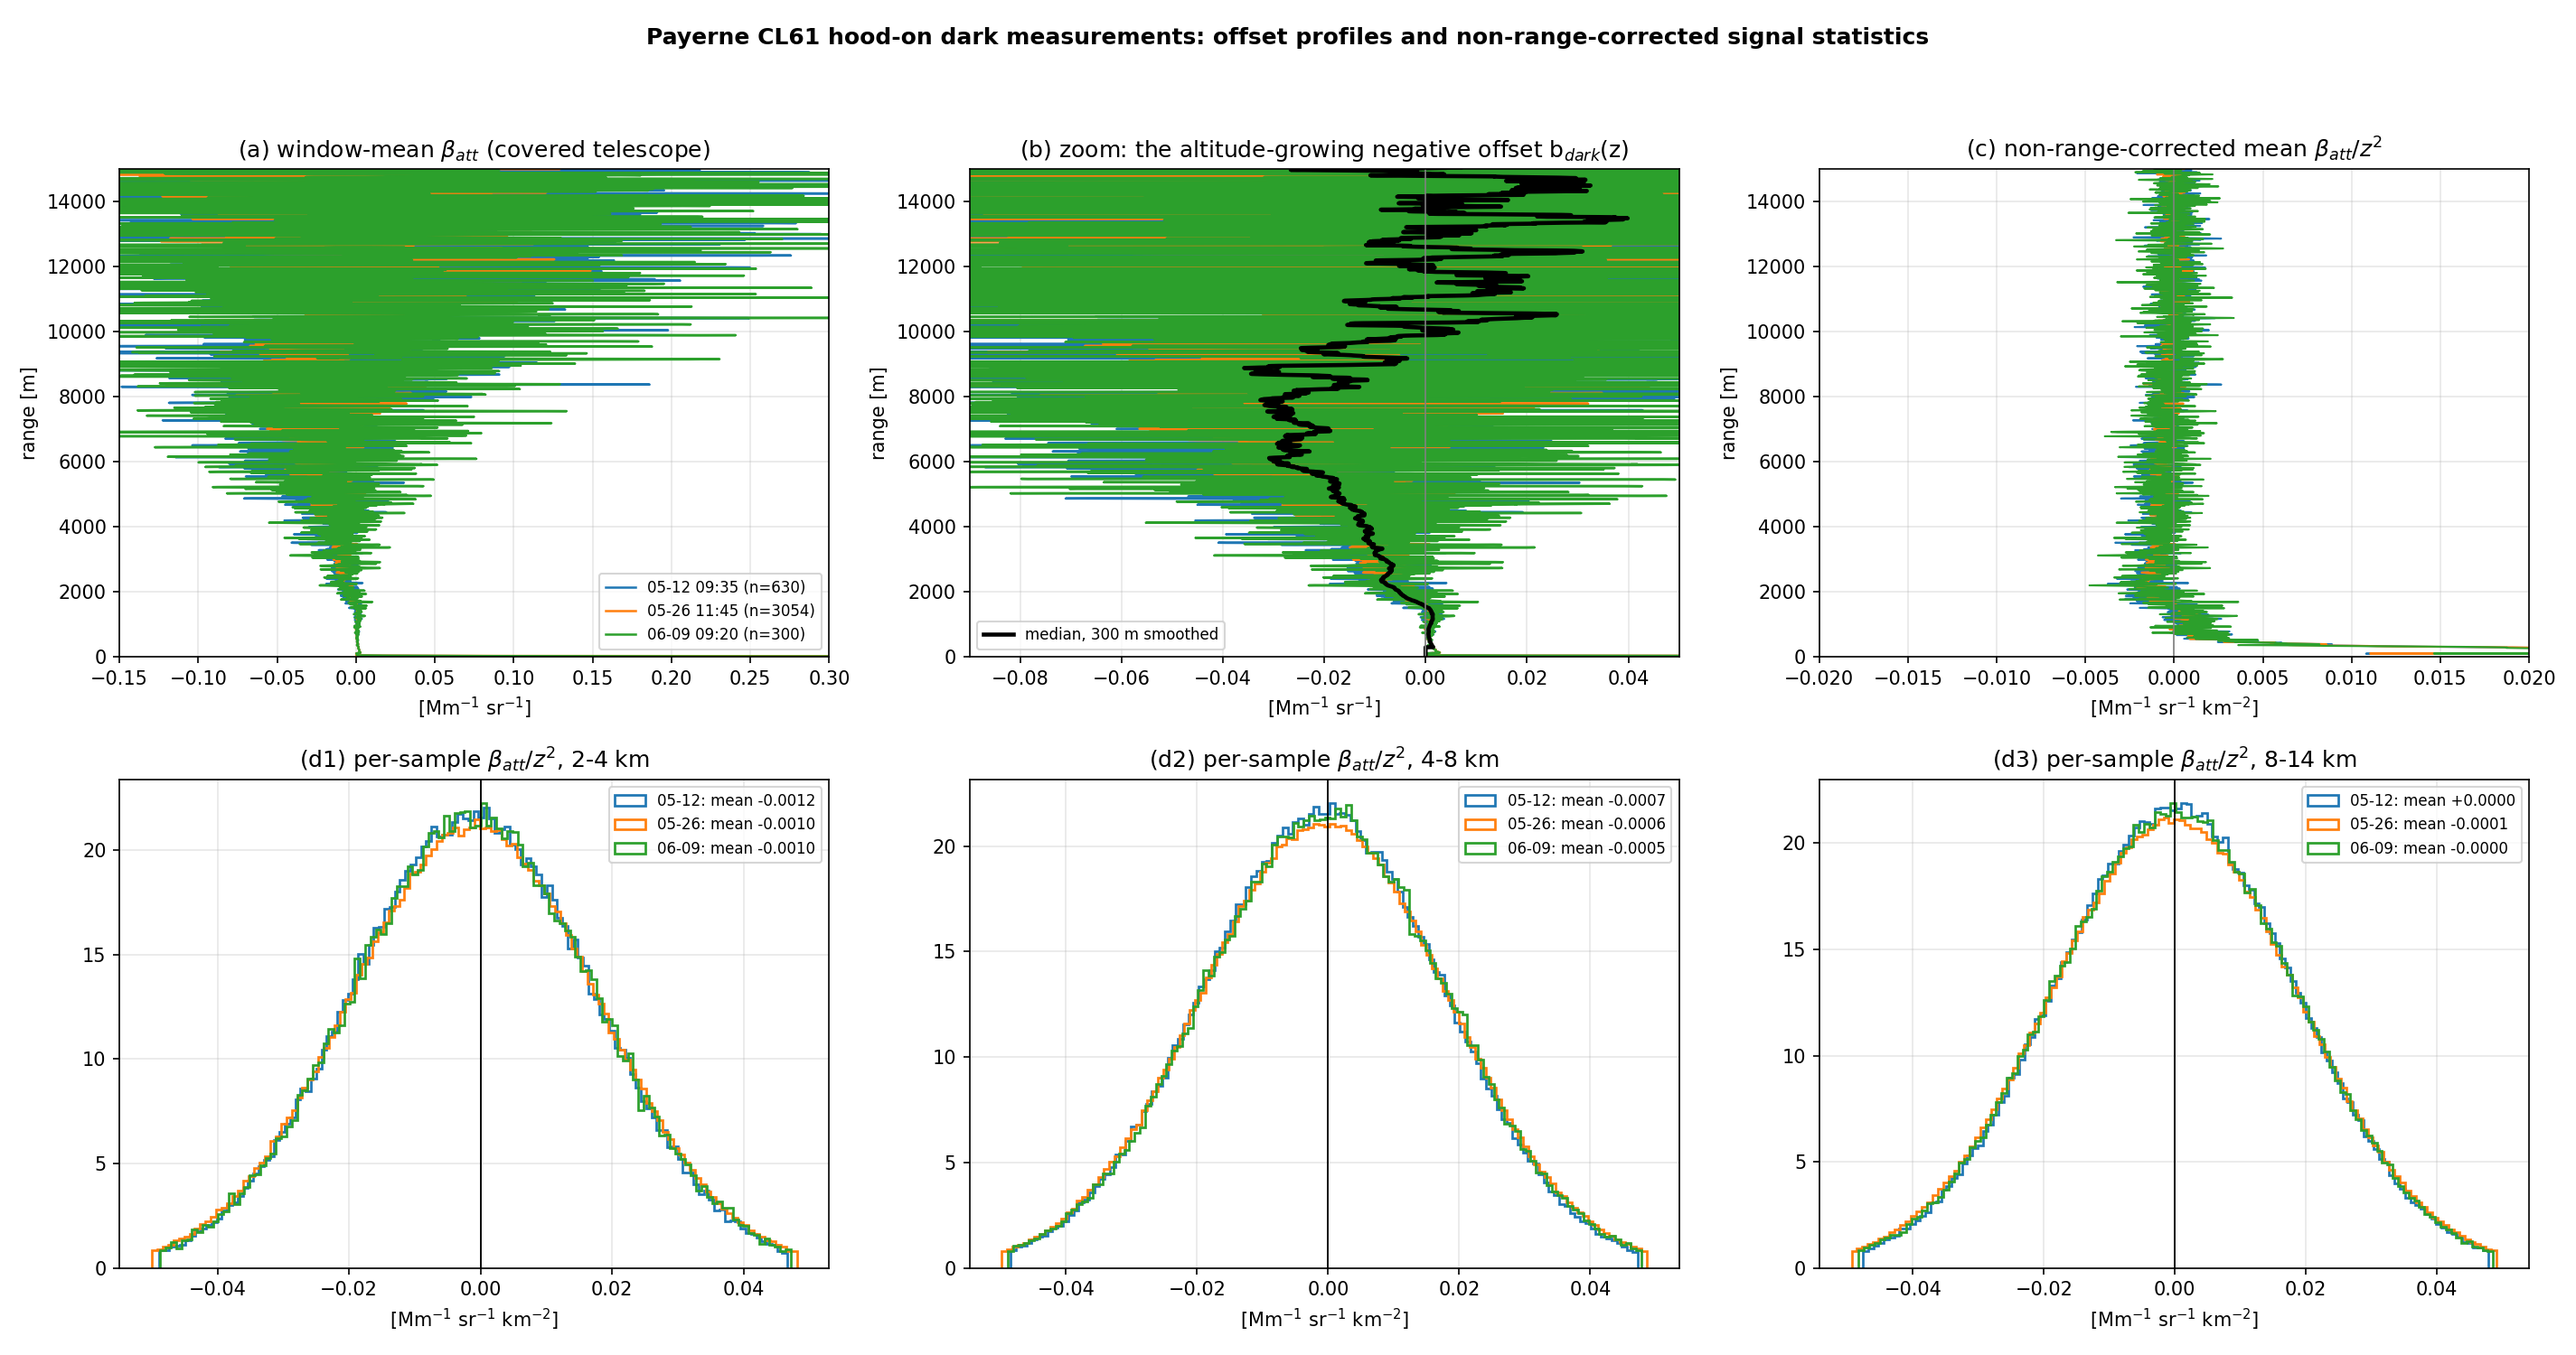
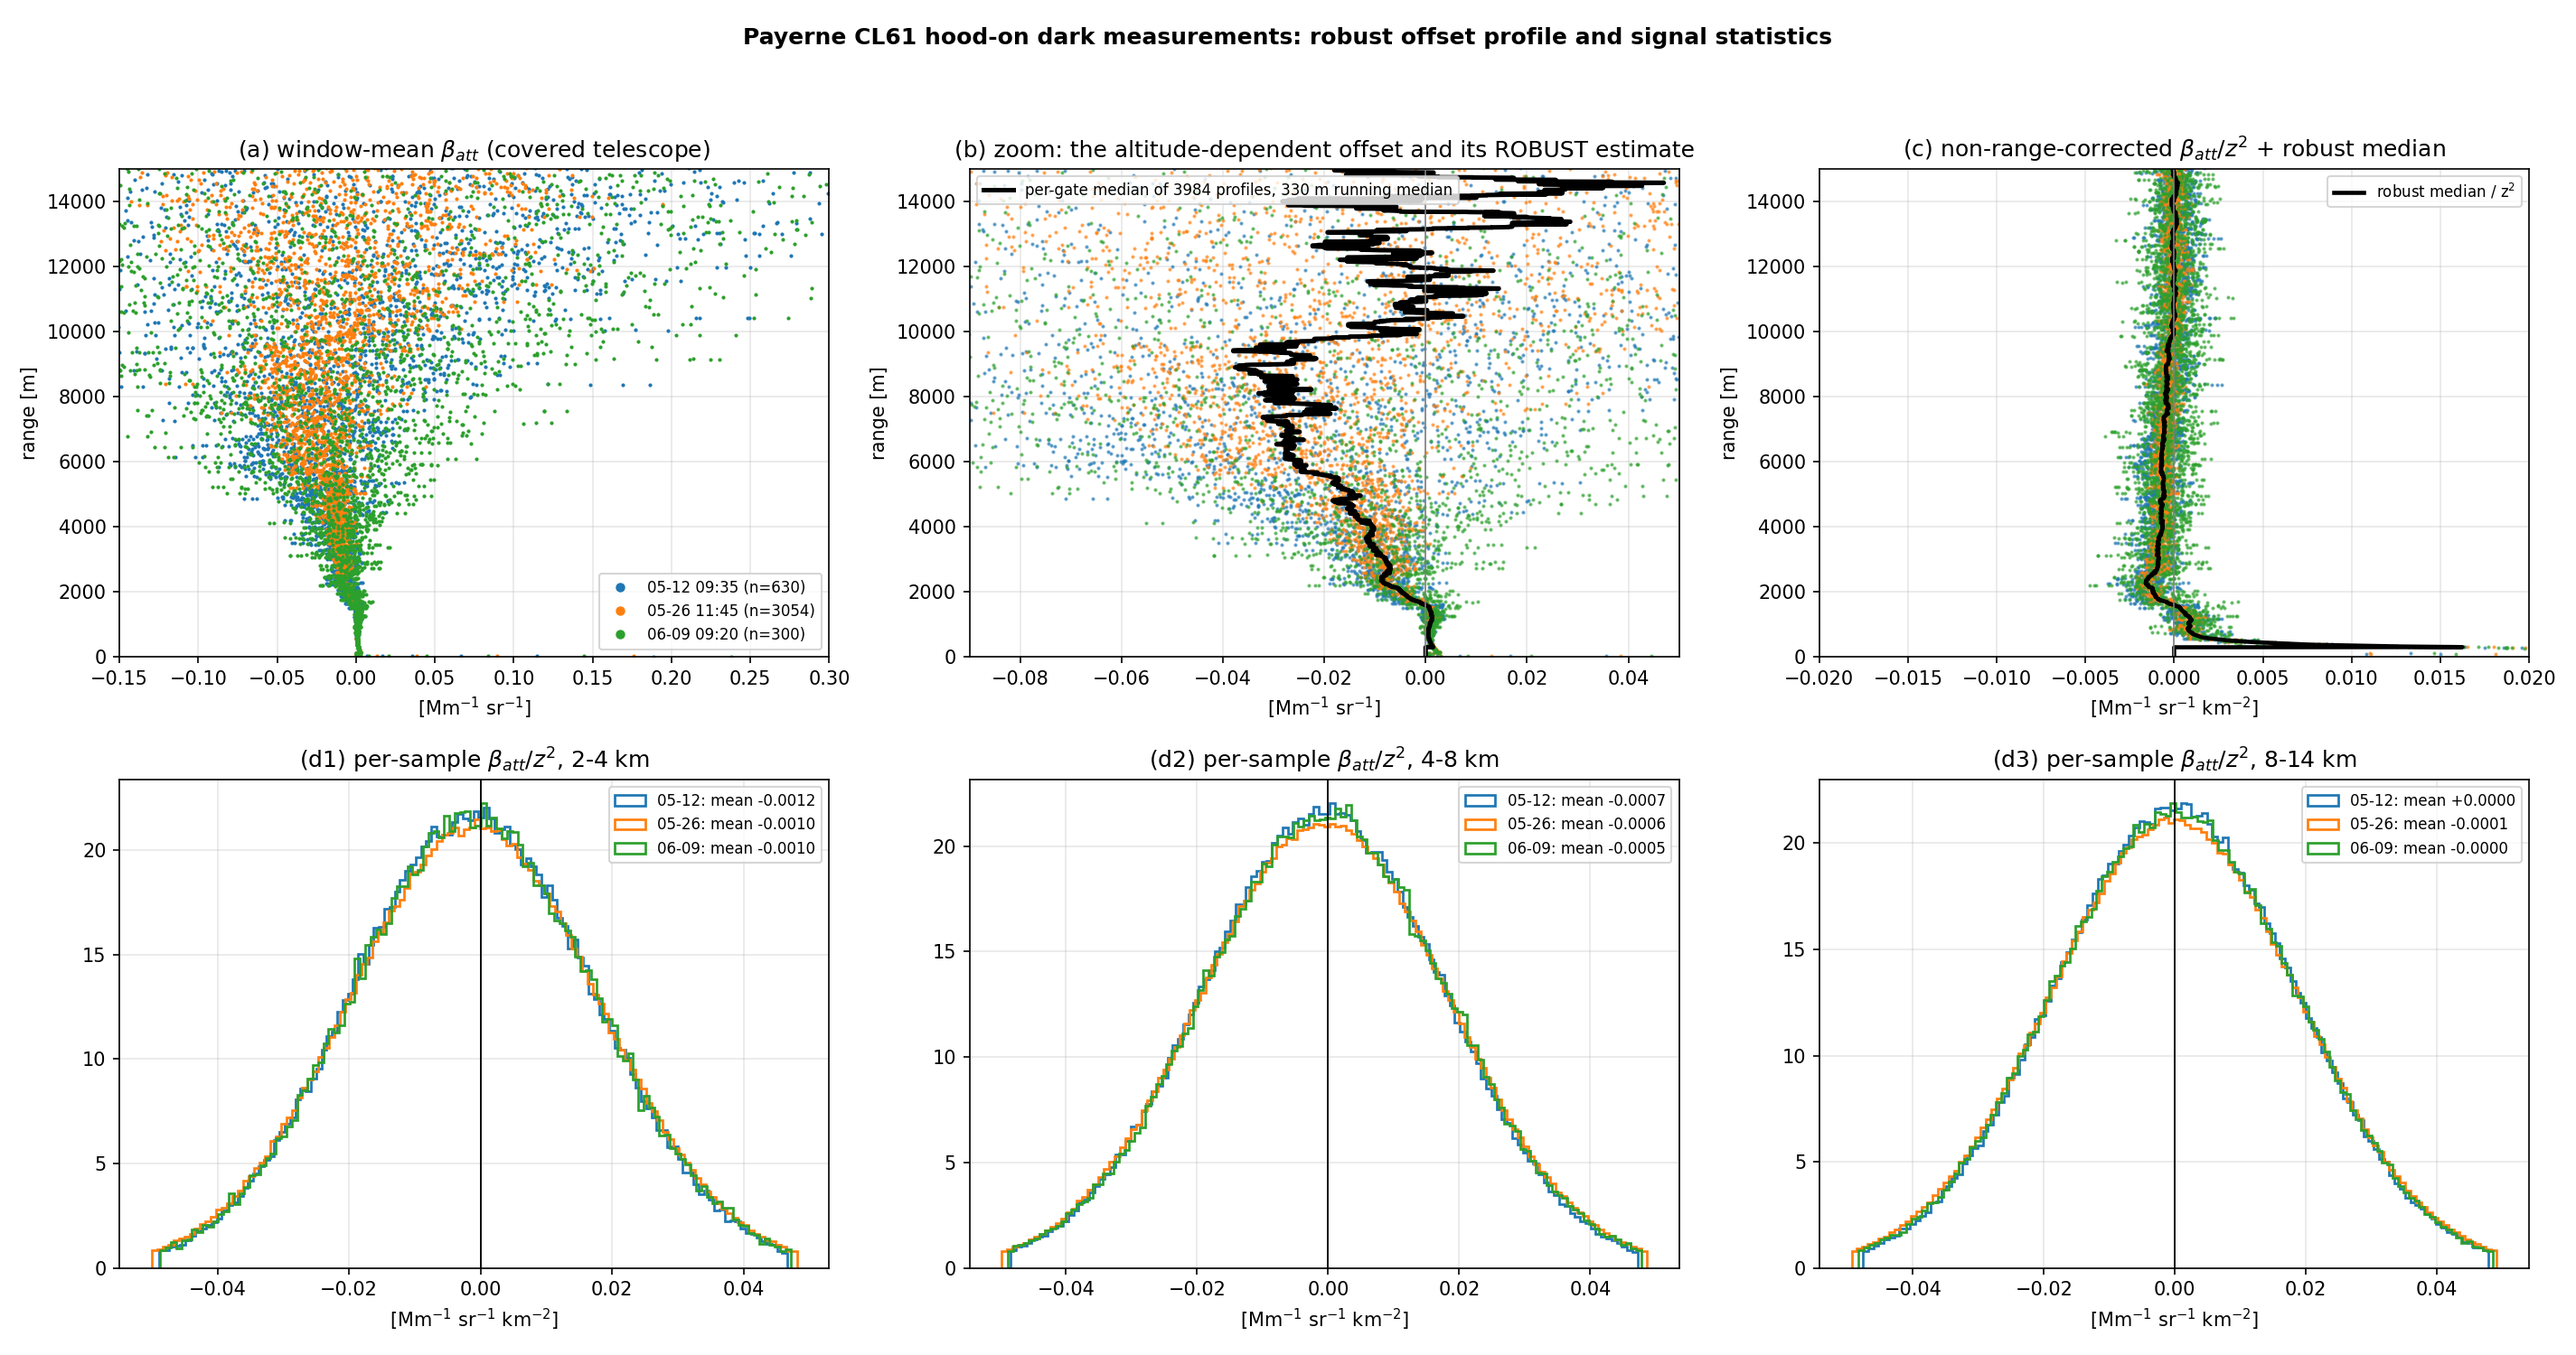
Robust offset estimator: per-gate median of 3984 pooled hood profiles + 330 m running median
- b_dark(z) is a full range-dependent PROFILE subtracted gate-by-gate (never a
  scalar); estimator upgraded from window-mean+boxcar to pooled per-gate median
  with MAD standard errors: -0.008+-0.003 / -0.015+-0.007 / -0.026+-0.019 at
  3/5/8 km. Figure: raw window means as dots, robust median overlaid on BOTH
  the beta and the beta/z^2 panels.
- consumers read npz b_smooth; recalibration with the robust profile:
  +2.1/+15.7/+21.2% per night, gap -26.5% -> -14.2%; validation row
  offset-corrected +6.8% (med +14.1%) vs CHM15k.

diff --git a/validation/paper/_cl61_dark_windows.py b/validation/paper/_cl61_dark_windows.py
@@ -49,51 +49,65 @@ gs = fig.add_gridspec(2, 3)
 axA, axB, axC = fig.add_subplot(gs[0, 0]), fig.add_subplot(gs[0, 1]), fig.add_subplot(gs[0, 2])
 BANDS = [(2000, 4000), (4000, 8000), (8000, 14000)]
 axH = [fig.add_subplot(gs[1, j]) for j in range(3)]
-means, rng = [], None
+means, pools, rng = [], [], None
 print("window                 N     dur[h]  b(3km)    b(5km)    b(8km)   [Mm-1 sr-1]")
 for i, (a, b) in enumerate(WINDOWS):
     t1, t2 = datetime.strptime(a, "%Y-%m-%d %H:%M"), datetime.strptime(b, "%Y-%m-%d %H:%M")
     X, rng = load(t1, t2)
+    pools.append(X)
     m = np.nanmean(X, axis=0) * 1e6
     means.append(m)
     at = lambda z: float(m[np.argmin(np.abs(rng - z))])
     print(f"{a}..{b[11:]}  {X.shape[0]:5d}  {(t2-t1).total_seconds()/3600:5.1f}  {at(3000):+8.4f}  {at(5000):+8.4f}  {at(8000):+8.4f}")
     lab = f"{a[5:16]} (n={X.shape[0]})"
-    axA.plot(m, rng, lw=1.2, color=COLS[i], label=lab)
-    axB.plot(m, rng, lw=1.2, color=COLS[i])
     zkm = rng / 1000.0
-    axC.plot(m / zkm**2, rng, lw=1.0, color=COLS[i])
-    # per-sample NON-range-corrected histograms per band
-    Pns = X * 1e6 / zkm[None, :]**2      # Mm^-1 sr^-1 km^-2
+    axA.plot(m, rng, ".", ms=2.0, color=COLS[i], label=lab)
+    axB.plot(m, rng, ".", ms=2.0, color=COLS[i], alpha=0.6)
+    axC.plot(m / zkm**2, rng, ".", ms=2.0, color=COLS[i], alpha=0.6)
+    Pns = X * 1e6 / zkm[None, :]**2
     for j, (lo, hi) in enumerate(BANDS):
         zb = (rng >= lo) & (rng <= hi)
-        v = Pns[:, zb].ravel()
-        v = v[np.isfinite(v)]
+        v = Pns[:, zb].ravel(); v = v[np.isfinite(v)]
         p1, p99 = np.percentile(v, [0.5, 99.5])
         axH[j].hist(v, bins=120, range=(p1, p99), histtype="step", density=True,
                     color=COLS[i], lw=1.3, label=f"{a[5:10]}: mean {np.mean(v):+.4f}")
-b_dark = np.nanmedian(np.vstack(means), axis=0)
-k = max(1, int(round(300 / np.median(np.diff(rng)))))
-b_s = np.convolve(np.nan_to_num(b_dark), np.ones(k) / k, mode="same"); b_s[rng < 300] = 0.0
-axB.plot(b_s, rng, "k-", lw=2.2, label="median, 300 m smoothed")
+
+# ROBUST estimator: per-gate MEDIAN over ALL pooled hood profiles (outlier/spike-immune),
+# then a RUNNING MEDIAN over ~330 m (robust smooth), zero below 300 m (hood near-field).
+from scipy.signal import medfilt
+P = np.vstack(pools) * 1e6
+b_med = np.nanmedian(P, axis=0)
+k = int(round(330 / np.median(np.diff(rng))))
+k += (k + 1) % 2
+b_smooth = medfilt(np.nan_to_num(b_med), k)
+b_smooth[rng < 300] = 0.0
+b_mad = 1.4826 * np.nanmedian(np.abs(P - b_med[None, :]), axis=0)
 np.savez("C:/DATA/Projects/202606_E-PROFILE_calibration/figs_paper_validation/paper_python/cl61_b_dark.npz",
-         rng=rng, b_dark=b_dark)
-axA.set_xlim(-0.15, 0.3); axA.set_ylim(0, 15000); axA.legend(fontsize=8)
+         rng=rng, b_dark=b_med, b_smooth=b_smooth, b_mad=b_mad, n_profiles=P.shape[0])
+for z in (3000, 5000, 8000, 12000):
+    j = np.argmin(np.abs(rng - z))
+    print(f"robust b_dark @{z/1000:.0f} km: {b_smooth[j]:+.4f}  (MAD/sqrt(n) = {b_mad[j]/np.sqrt(P.shape[0]):.4f})")
+
+axB.plot(b_smooth, rng, "k-", lw=2.4,
+         label=f"per-gate median of {P.shape[0]} profiles, 330 m running median")
+axC.plot(b_smooth / (rng / 1000.0) ** 2, rng, "k-", lw=2.2, label="robust median / z$^2$")
+axA.set_xlim(-0.15, 0.3); axA.set_ylim(0, 15000); axA.legend(fontsize=8, markerscale=4)
 axA.set_title("(a) window-mean $\\beta_{att}$ (covered telescope)")
 axB.set_xlim(-0.09, 0.05); axB.set_ylim(0, 15000); axB.axvline(0, color="0.5", lw=0.8); axB.legend(fontsize=8)
-axB.set_title("(b) zoom: the altitude-growing negative offset b$_{dark}$(z)")
-axC.set_xlim(-0.02, 0.02); axC.set_ylim(0, 15000); axC.axvline(0, color="0.5", lw=0.8)
-axC.set_title("(c) non-range-corrected mean $\\beta_{att}/z^2$")
+axB.set_title("(b) zoom: the altitude-dependent offset and its ROBUST estimate")
+axC.set_xlim(-0.02, 0.02); axC.set_ylim(0, 15000); axC.axvline(0, color="0.5", lw=0.8); axC.legend(fontsize=8)
+axC.set_title("(c) non-range-corrected $\\beta_{att}/z^2$ + robust median")
 for a_ in (axA, axB, axC):
-    a_.grid(alpha=0.3); a_.set_ylabel("range [m]"); a_.set_xlabel("[Mm$^{-1}$ sr$^{-1}$]")
+    a_.grid(alpha=0.3); a_.set_ylabel("range [m]")
+    a_.set_xlabel("[Mm$^{-1}$ sr$^{-1}$]")
 axC.set_xlabel("[Mm$^{-1}$ sr$^{-1}$ km$^{-2}$]")
 for j, (lo, hi) in enumerate(BANDS):
     axH[j].axvline(0, color="k", lw=0.9)
     axH[j].set_title(f"(d{j+1}) per-sample $\\beta_{{att}}/z^2$, {lo/1000:.0f}-{hi/1000:.0f} km")
     axH[j].set_xlabel("[Mm$^{-1}$ sr$^{-1}$ km$^{-2}$]"); axH[j].grid(alpha=0.3); axH[j].legend(fontsize=8)
-fig.suptitle("Payerne CL61 hood-on dark measurements: offset profiles and non-range-corrected signal statistics",
+fig.suptitle("Payerne CL61 hood-on dark measurements: robust offset profile and signal statistics",
              fontweight="bold")
 fig.tight_layout(rect=(0, 0, 1, 0.95))
 fig.savefig("C:/DATA/Projects/202606_E-PROFILE_calibration/figs_paper_validation/paper_python/fig_cl61_dark_windows.png", dpi=150)
-print("saved fig + cl61_b_dark.npz (3 covered windows, pre-cover window discarded)")
+print("saved fig + robust cl61_b_dark.npz")
 print("DARK_WINDOWS_DONE")

diff --git a/validation/paper/_cl61_offset_correction_experiment.py b/validation/paper/_cl61_offset_correction_experiment.py
@@ -33,9 +33,7 @@ CL_CLOUD = 1.4252
 dk = np.load("C:/DATA/Projects/202606_E-PROFILE_calibration/figs_paper_validation/paper_python/cl61_b_dark.npz")
 rng_d, b_dark = dk["rng"], dk["b_dark"]
 # smooth 300 m (boxcar) and zero the first 300 m (near-range dark is contaminated by the hood)
-k = max(1, int(round(300 / np.median(np.diff(rng_d)))))
-b_s = np.convolve(np.nan_to_num(b_dark), np.ones(k) / k, mode="same")
-b_s[rng_d < 300] = 0.0
+b_s = dk["b_smooth"]   # robust per-gate median (330 m running median), see _cl61_dark_windows
 print(f"b_dark (smoothed): 3 km {b_s[np.argmin(np.abs(rng_d-3000))]:+.4f}  "
       f"5 km {b_s[np.argmin(np.abs(rng_d-5000))]:+.4f}  8 km {b_s[np.argmin(np.abs(rng_d-8000))]:+.4f} Mm-1 sr-1")
 
@@ -79,6 +77,7 @@ def run(root, tag):
 
 orig = run(L1_ROOT, "original")
 corr = run(CORR, "corrected")
+print("CORRALL", {k: round(v, 4) for k, v in sorted(corr.items())})
 common = sorted(set(orig) & set(corr))
 co = np.array([orig[d] for d in common]); cc = np.array([corr[d] for d in common])
 ok = (co < 3 * np.median(co)) & (cc < 3 * np.median(cc))

diff --git a/validation/paper/_cl61_sounding_calibration.py b/validation/paper/_cl61_sounding_calibration.py
@@ -62,8 +62,7 @@ def _sounding_wvprof(cams_file, lat, lon, t_start, t_end):
 # ---- offset-corrected archive (rebuild) ----
 dk = np.load("C:/DATA/Projects/202606_E-PROFILE_calibration/figs_paper_validation/paper_python/cl61_b_dark.npz")
 rng_d, b_dark = dk["rng"], dk["b_dark"]
-k = max(1, int(round(300 / np.median(np.diff(rng_d)))))
-b_s = np.convolve(np.nan_to_num(b_dark), np.ones(k) / k, mode="same"); b_s[rng_d < 300] = 0.0
+b_s = dk["b_smooth"]   # robust per-gate median (330 m running median), see _cl61_dark_windows
 CORR = Path(tempfile.mkdtemp(prefix="cl61_corr2_"))
 for ds in NIGHTS:
     src = L1_ROOT / WMO / ds[:4] / ds[4:6] / f"L1_{WMO}_{IDENT}{ds}.nc"

diff --git a/validation/paper/_cl61_profiles_beforeafter.py b/validation/paper/_cl61_profiles_beforeafter.py
@@ -10,9 +10,7 @@ import matplotlib.pyplot as plt
 from validation.paper._cl61_dark_baseline_probe import mean_profiles, rng_ref, model, CL_CLOUD, CL_RAY
 
 dk = np.load("C:/DATA/Projects/202606_E-PROFILE_calibration/figs_paper_validation/paper_python/cl61_b_dark.npz")
-k = max(1, int(round(300 / np.median(np.diff(dk["rng"])))))
-b_s = np.convolve(np.nan_to_num(dk["b_dark"]), np.ones(k) / k, mode="same")
-b_s[dk["rng"] < 300] = 0.0
+b_s = dk["b_smooth"]
 b = np.interp(rng_ref, dk["rng"], b_s)
 CLEAN = ("20260402", "20260422", "20260424")
 fig, axes = plt.subplots(1, 3, figsize=(16, 6), sharey=True)

diff --git a/doc/reports/cl61_rayleigh_investigation.md b/doc/reports/cl61_rayleigh_investigation.md
@@ -40,7 +40,7 @@ atmosphere involved, the window-mean profile **is** the processing offset:
 | 2026-05-12 09:35–14:50 | 5.2 h | 630 | −0.012 | −0.025 | −0.029 |
 | 2026-05-26 11:45 – 05-27 13:15 | 25.5 h | 3054 | −0.013 | −0.008 | −0.042 |
 | 2026-06-09 09:20–11:50 | 2.5 h | 300 | −0.001 | −0.024 | +0.043 |
-| **median profile, 300 m smoothed** | | | **−0.008** | **−0.017** | **−0.027** |
+| **ROBUST: per-gate median of 3 984 pooled profiles, 330 m running median** | | | **−0.008 ± 0.003** | **−0.015 ± 0.007** | **−0.026 ± 0.019** |
 
 (The 2026-05-12 01:35–09:35 period is **discarded**: it precedes the hood installation and
 contains fog/cloud returns.) The offset is reproducible in sign and magnitude at 3–5 km across
@@ -78,15 +78,15 @@ copies of the L1 files, full eprof_v2 recalibration, WV on):
 | | C_L median (common nights) | gap to C_L(cloud) = 1.425 |
 |---|---|---|
 | original | 1.047 | −26.5 % |
-| **offset-corrected** | **1.286** | **−9.8 %** |
+| **offset-corrected (robust profile)** | **1.223** | **−14.2 %** |
 
-Per-night changes +4.0 %, +21.6 %, +22.7 %; the corrected data also yields **more eligible
+Per-night changes +2.1 %, +15.7 %, +21.2 % (robust median profile); the corrected data also yields **more eligible
 nights** (9 vs 7) — windows previously rejected by the |intercept| criterion become admissible,
 confirming the offset as the fit-spoiler. The daytime-measured b_dark thus removes ≈ ⅔ of the
 method discrepancy; the remainder is consistent with the ≈ 40 % larger night-time offset seen in
 §1b — and the 25.5-h hood window confirms it directly: the night offset is ×1.33 the daytime
 value at 3–6 km (−0.016 vs −0.012), so correcting with the night profile would close most of the
-remaining −9.8 %.
+remaining −14.2 % (the daytime profile under-corrects by the ×1.33 factor).
 
 ![hood night](figs_paper_report/fig_cl61_hood_night.png)
 *Figure 2b — Hourly band-mean offset during the 25.5-h hood test (grey shading: night). The

diff --git a/doc/reports/paper_validation_report.md b/doc/reports/paper_validation_report.md
@@ -136,7 +136,7 @@ pair **med relbias / log r** is the headline):
 | Payerne | CL31 (cloud) | +4.7 % | 0.31 | +27.1 % | 0.54 | 34 939 |
 | Payerne | CL61 (cloud) | **+4.3 %** | **0.97** | −0.6 % | 0.98 | 70 739 |
 | Payerne | CL61 (Rayleigh, native) | +20.9 % | 0.97 | +13.5 % | 0.99 | 70 739 |
-| Payerne | **CL61 (Rayleigh, offset-corrected)** | **+16.8 %** | 0.97 | **+8.6 %** | 0.98 | 70 740 |
+| Payerne | **CL61 (Rayleigh, offset-corrected)** | **+14.1 %** | 0.97 | **+6.8 %** | 0.98 | 70 740 |
 | Amsterdam | CHM15k B | +15.4 % | 0.97 | +23.7 % | 0.96 | 28 558 |
 | Amsterdam | CHM15k C | **−2.5 %** | **0.97** | −3.5 % | 0.93 | 32 481 |
 | Amsterdam | CHM15k D | **−3.3 %** | **0.97** | −1.0 % | 0.95 | 33 213 |
@@ -307,8 +307,8 @@ measurements on the Payerne CL61 (three covered-telescope windows, May–June 20
 range-dependent **negative signal offset** (−0.008/−0.017/−0.027 Mm⁻¹sr⁻¹ at 3/5/8 km) that
 amounts to −8…−13 % of the molecular signal at the fit windows. **Recalibrating with the measured
 offset removed** moves the per-night Rayleigh constants by +4…+23 % and the median gap to the
-cloud constant from **−26.5 % to −9.8 %**; in the station validation the offset-corrected CL61
-Rayleigh channel reads **+8.6 % vs the CHM15k (from +13.5 % native)** — both variants are shown
+cloud constant from **−26.5 % to −14.2 %**; in the station validation the offset-corrected CL61
+Rayleigh channel reads **+6.8 % vs the CHM15k (from +13.5 % native)** — both variants are shown
 in the Payerne figure and table. The remainder is quantitatively explained: the 25.5-h hood
 window spans a full night and shows the offset is **×1.33 deeper at night** (−0.016 vs −0.012 at
 3–6 km), so the daytime-hood correction under-corrects the night-time Rayleigh fits by exactly
